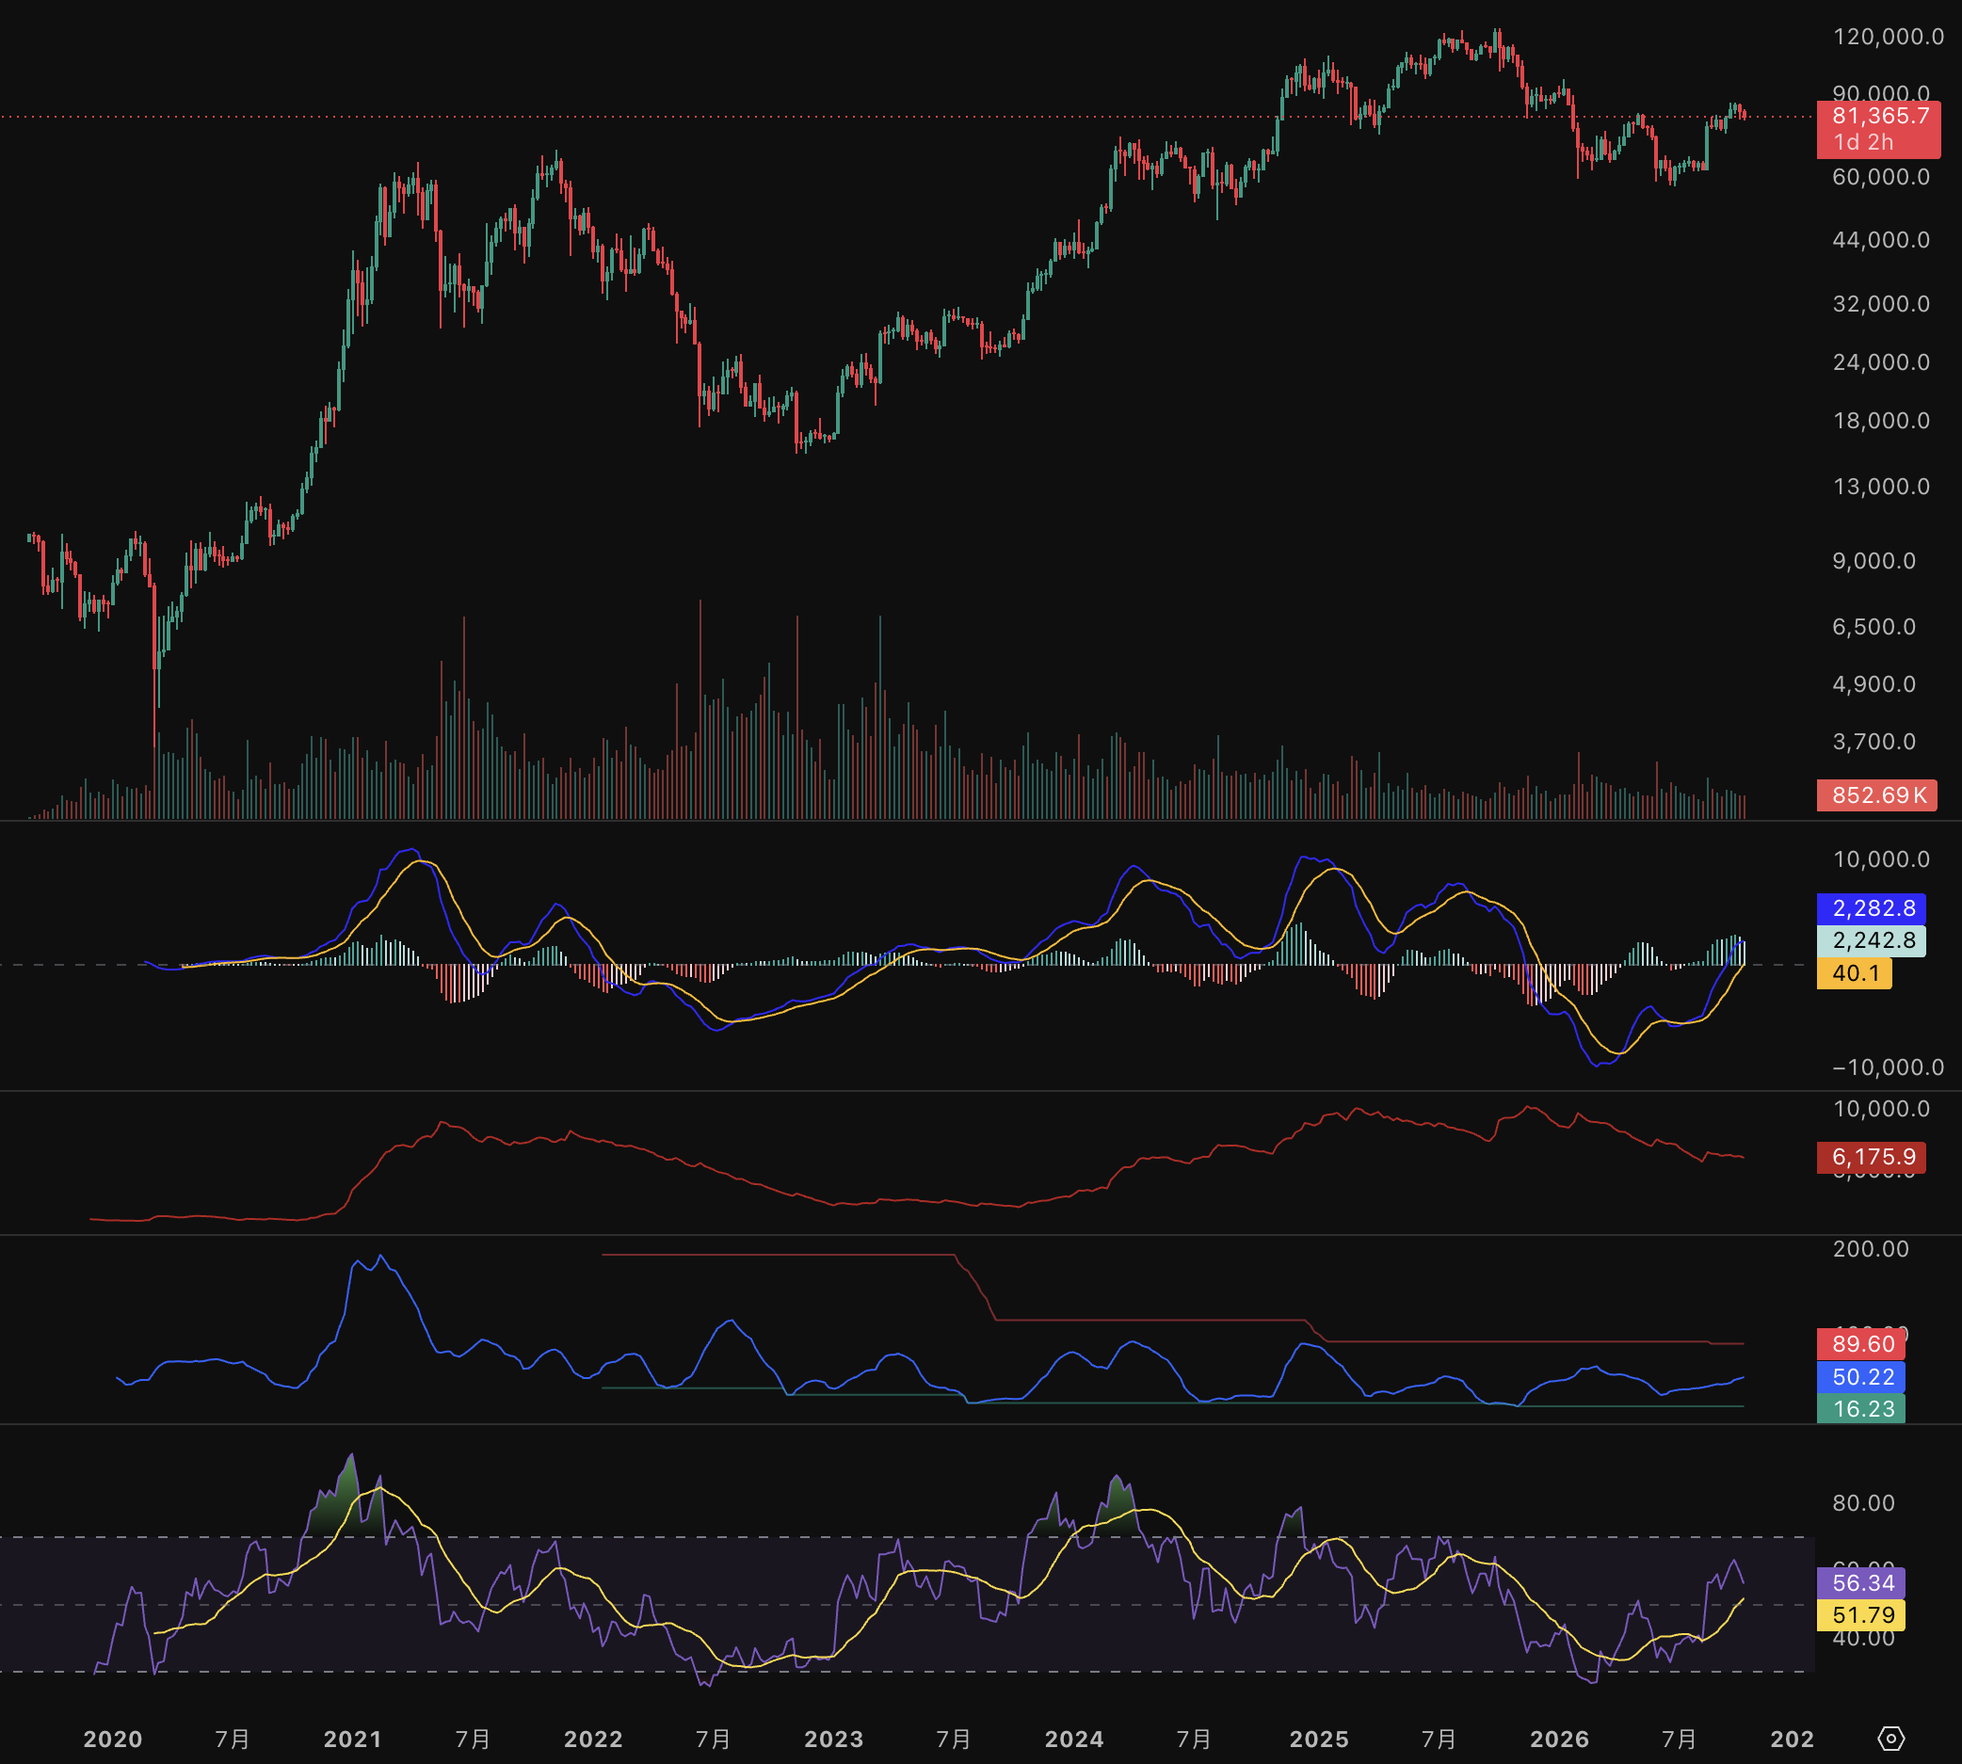
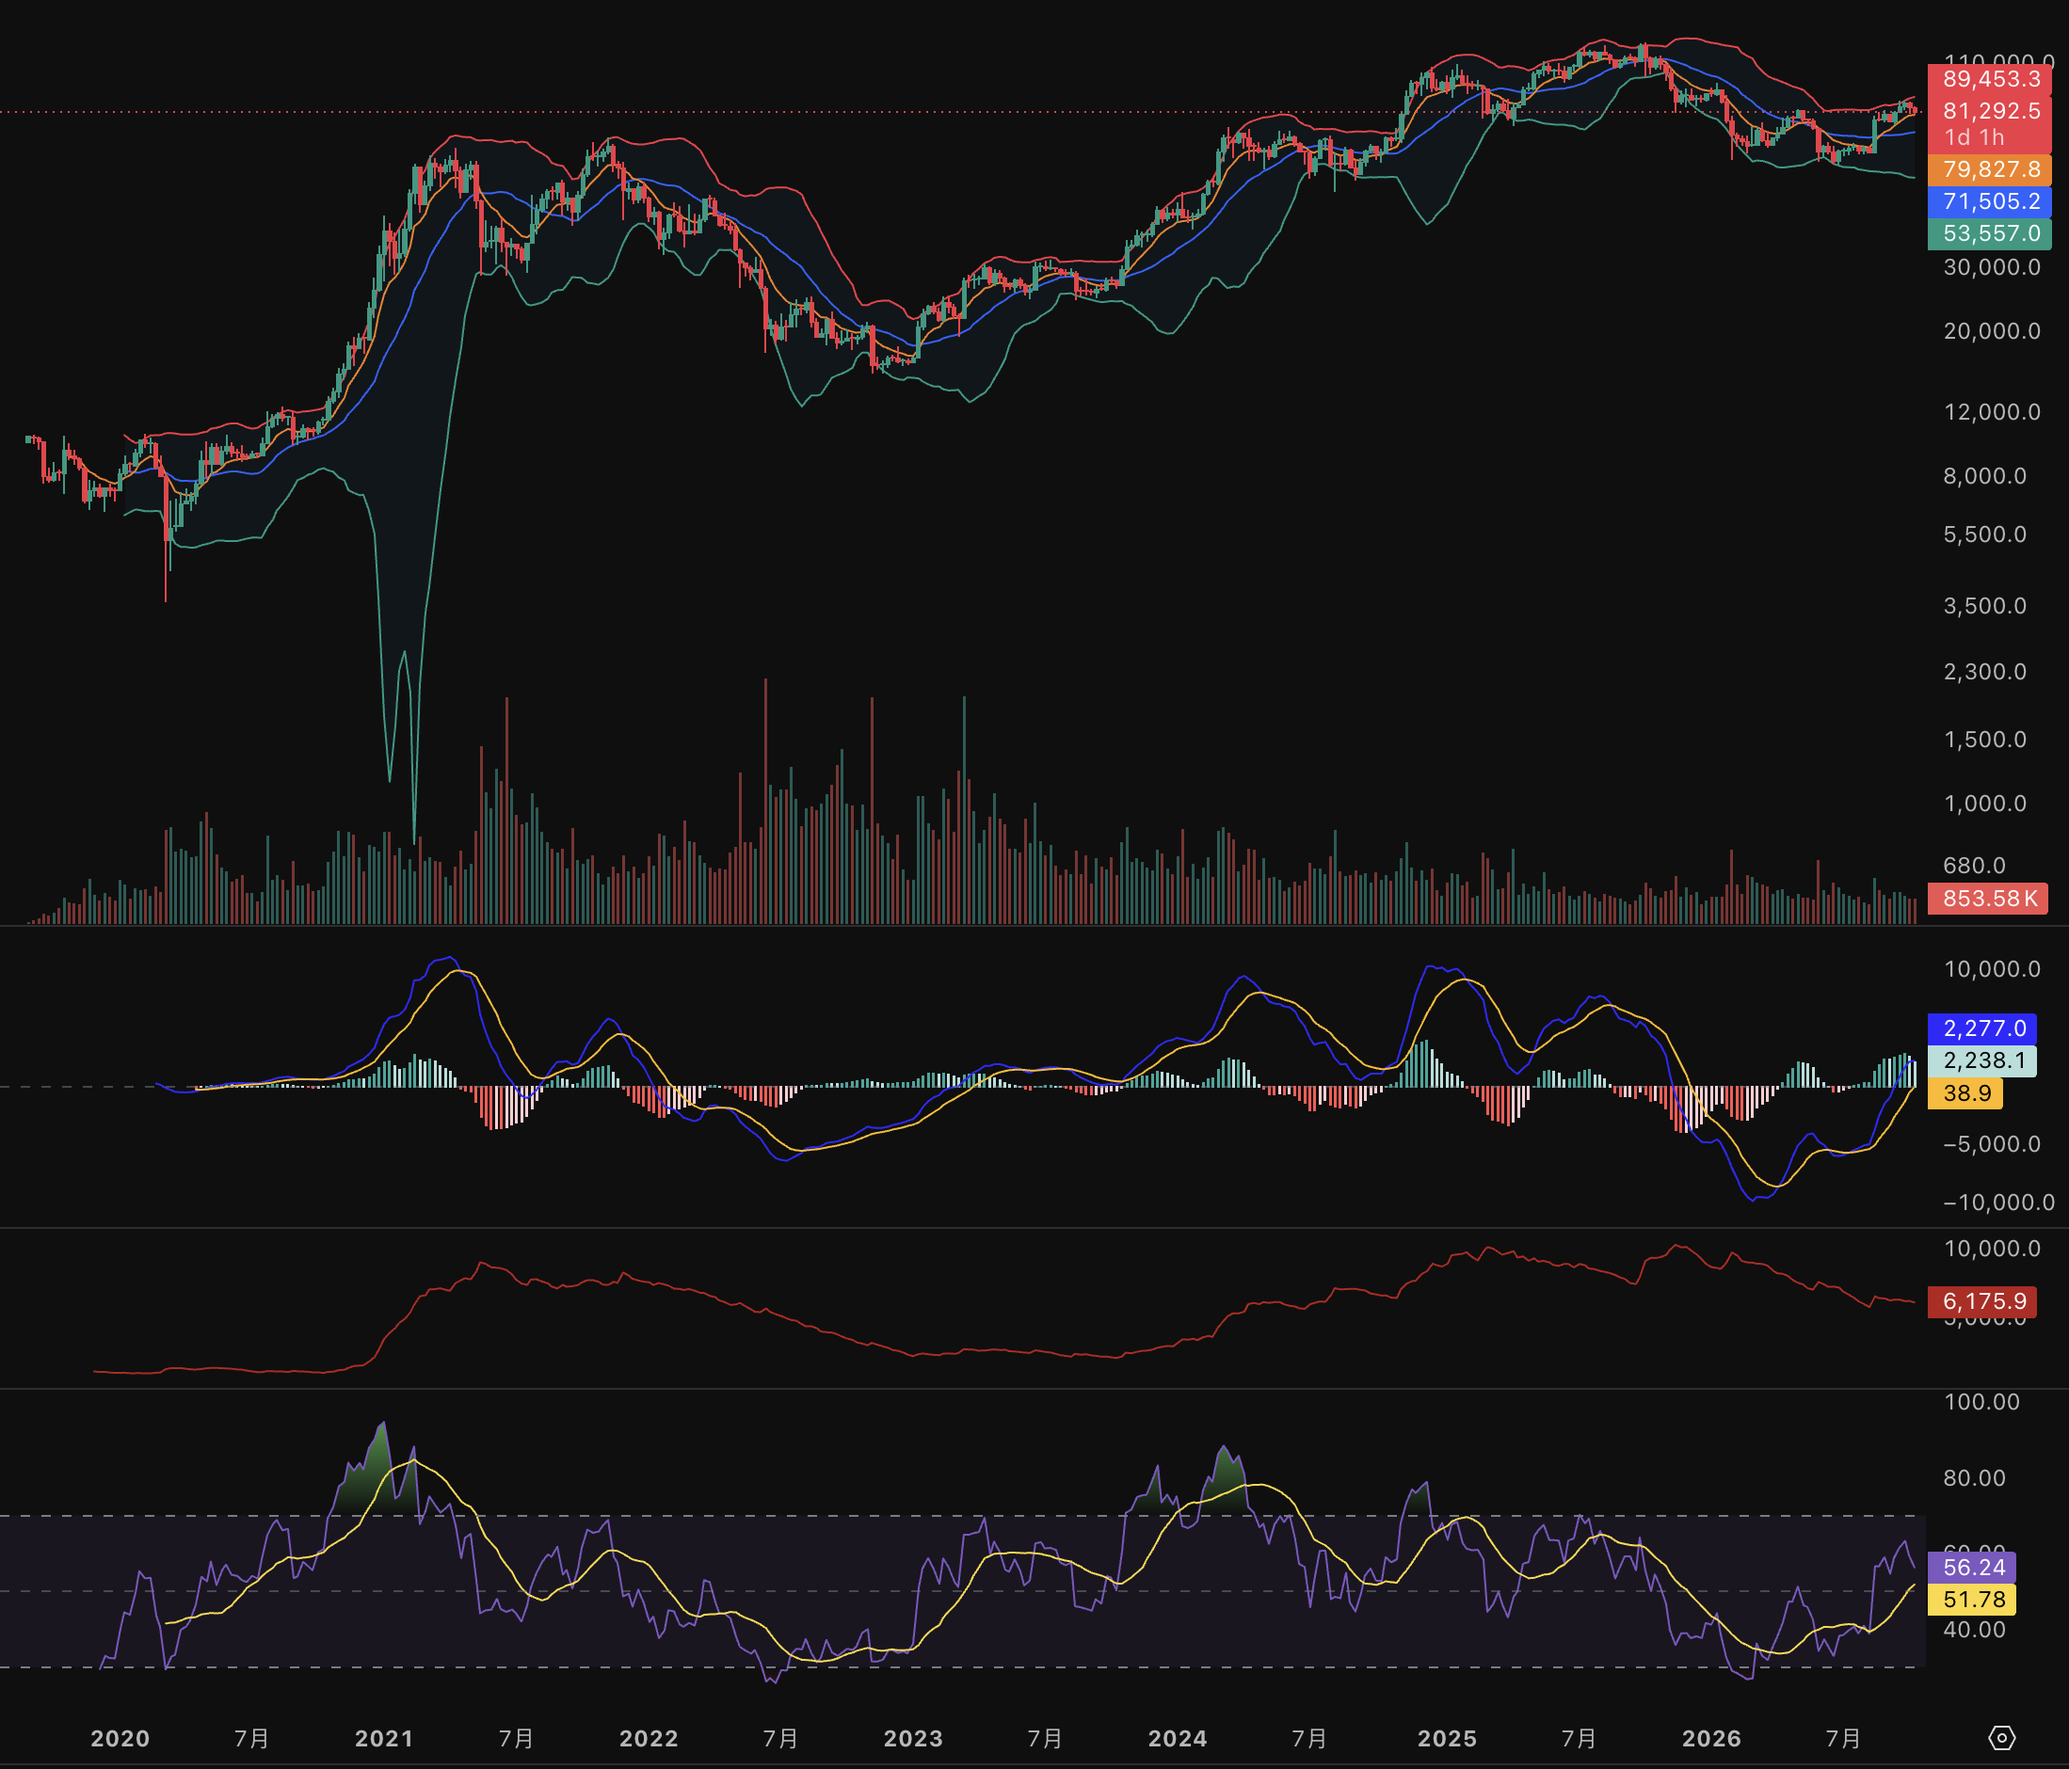
refresh weekly trend chart analysis

diff --git a/book/advanced/identifying-market-trends.md b/book/advanced/identifying-market-trends.md
@@ -144,9 +144,9 @@ A practical reading separates three steps:
 
 The weekly chart shows the full BTC history in the screenshot. It is useful for locating the current move inside the larger cycle, but it should not be used to postpone every decision until a new all-time high appears. We need a defined horizon: for a position held for weeks or months, the recent one-to-two-year weekly structure matters more than the entire history.
 
-On this chart, BTC remains far above the major 2022 low and has recovered from the recent low near the 60,000 area. Weekly RSI is around **56.34**, above its smoother line near **51.79** and above the neutral 50 area. The weekly MACD lines have turned upward and the histogram is positive near the right edge. Those observations support a **weekly recovery or bullish environment**.
+On this chart, BTC remains far above the major 2022 low and has recovered from the recent low near the 60,000 area. Price is around **81,292.5**, above the Bollinger middle band near **79,827.8** and above the displayed EMA(9) near **71,505.2**. Weekly RSI is around **56.24**, above its smoother line near **51.78** and above the neutral 50 area. The fast MACD line is around **2,277.0**, the slow line is around **38.9**, and the positive histogram is around **2,238.1**. ATR is near **6,175.9** and falling, which means typical weekly movement has been narrowing; ATR does not tell us the direction. These observations support a **weekly recovery or bullish environment**.
 
-They do not prove that a new long-term bull cycle is already established. Price is still below the later peak near 120,000, and the chart has not yet shown a new weekly HH above that peak. Weekly volume at the right edge is also much lower than the largest historical expansion. A precise conclusion is therefore: **the long-term structure is recovering and currently constructive, but continuation still needs confirmation**.
+They do not prove that a new long-term bull cycle is already established. Price is still below the later peak near 120,000, and the chart has not yet shown a new weekly HH above that peak. Weekly volume at the right edge is around **853.58K**, much lower than the largest historical expansion. A precise conclusion is therefore: **the fall from 120,000 toward 60,000 has probably lost its previous bearish momentum, but a new long-term bull cycle still needs structural confirmation**.
 
 The lower recent bars need careful interpretation. This panel is the volume for the selected symbol and data source, not a complete measure of every BTC trade worldwide. The 2021–2023 period included exceptional retail speculation, altcoin activity, leverage, and liquidation waves, which created unusually large bursts. Later activity can also be distributed across spot ETFs, regulated futures, OTC transactions, and other exchanges rather than appearing in one crypto venue's weekly bars. The launch of US spot Bitcoin ETFs changed how institutions could obtain exposure; the [Banque de France's review](https://www.banque-france.fr/en/publications-and-statistics/publications/institutional-investments-crypto-exchange-traded-funds-rise) documents that institutional ETF holdings grew during 2024. Treat the visible volume as evidence about participation in this chart, not as proof that total Bitcoin participation has fallen.
 
